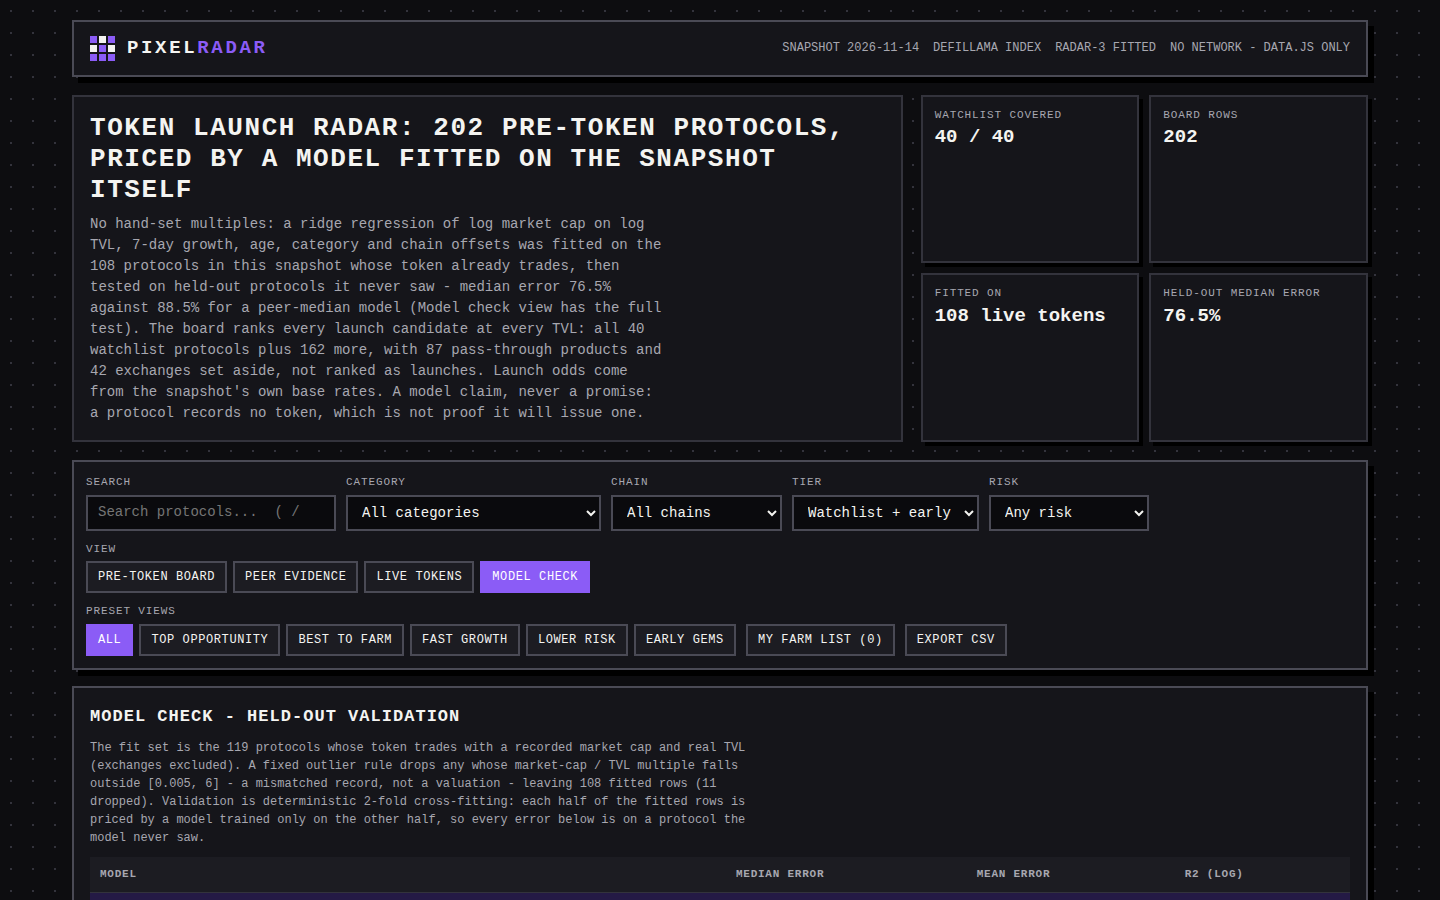
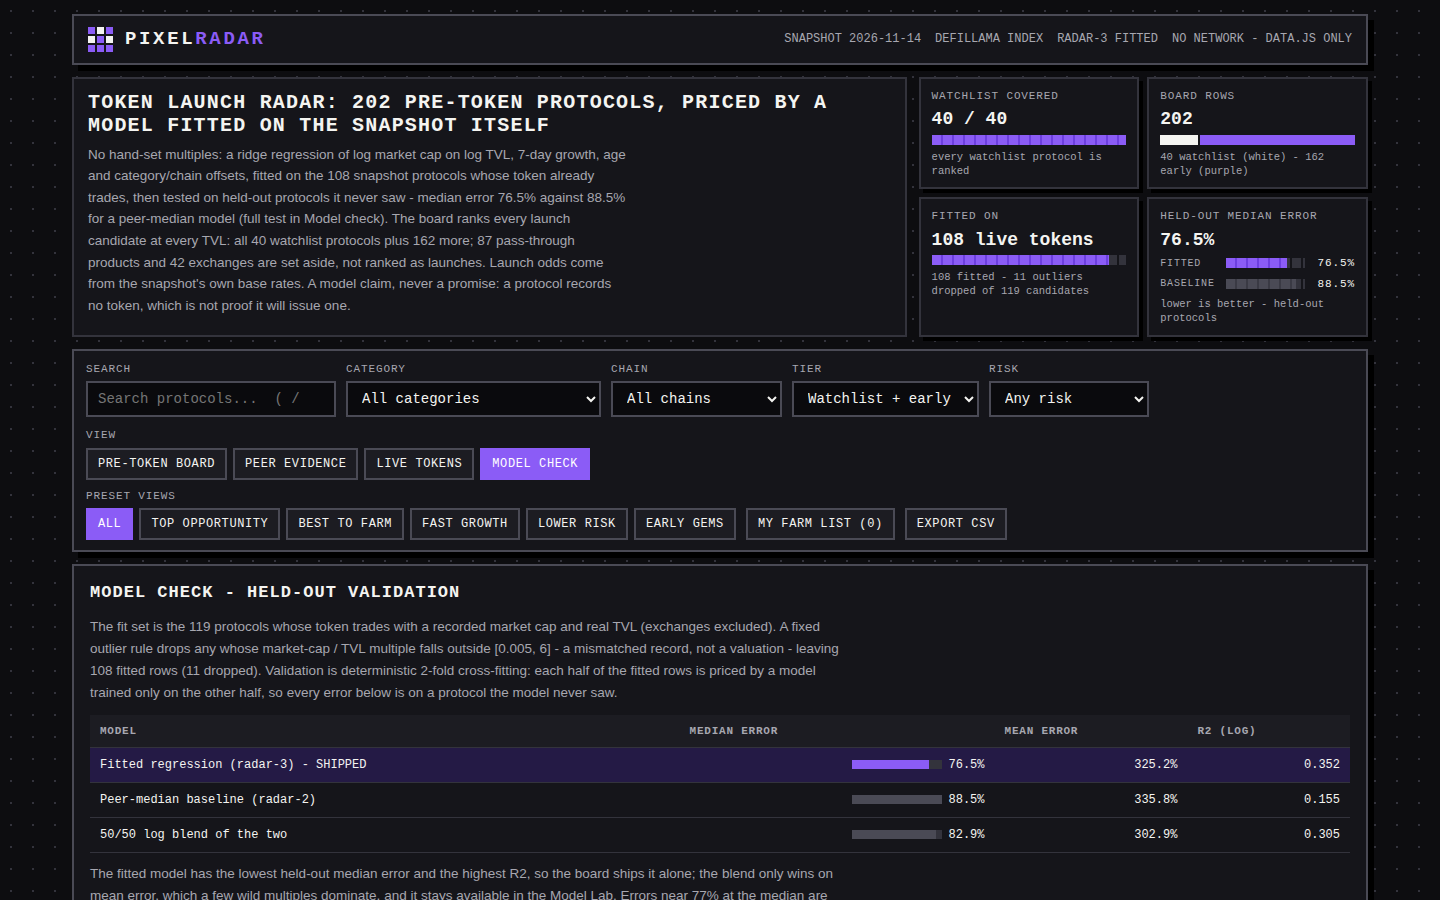
PIXEL RADAR v3 dashboard polish: typography split (pixel for headings/numbers, clean sans for body), purple as data language (odds/EV/error bars), filled stat cards with mini-viz, compact hero - model and board unchanged

Changed region(s): [[0.0312, 0.0, 0.9688, 0.9333], [0.0625, 0.9644, 0.9375, 1.0]]

diff --git a/dashboard/app.css b/dashboard/app.css
@@ -1,16 +1,20 @@
 /* PIXEL RADAR theme: black, white, one purple. No radius, 2px rules, hard offset
-   shadows and a monospace grid — a pixel instrument, not a rounded SaaS card. */
+   shadows and a monospace grid — a pixel instrument, not a rounded SaaS card.
+   Type split: the mono/display face carries headings, numbers, table headers
+   and short labels; long body text reads in a clean system sans. Purple is a
+   data language only: bars, segments and slider accents, never decoration. */
 :root{
   --bg:#0d0d10; --panel:#15151a; --panel2:#1c1c22; --ink:#f4f4f1; --muted:#a7a7b0;
   --line:#33333c; --line2:#4a4a55; --purple:#8b5cf6; --purple2:#c4b0ff; --deep:#241a45;
   --font:"Courier New",ui-monospace,Menlo,Consolas,monospace;
+  --sans:-apple-system,BlinkMacSystemFont,"Segoe UI",Roboto,Helvetica,Arial,sans-serif;
 }
 *{box-sizing:border-box}
 html{color-scheme:dark}
 body{margin:0;background:var(--bg);color:var(--ink);font:400 14px/1.5 var(--font);
   background-image:radial-gradient(var(--line) 1px,transparent 1px);background-size:22px 22px}
 h1,h2,h3{margin:0;text-transform:uppercase;letter-spacing:.06em}
-h1{font-size:26px;line-height:1.2} h2{font-size:17px} h3{font-size:13px;color:var(--purple2)}
+h1{font-size:20px;line-height:1.18} h2{font-size:17px} h3{font-size:13px;color:var(--purple2)}
 p{margin:0} button,input,select{font:inherit;color:inherit}
 button{cursor:pointer;background:var(--panel2);border:2px solid var(--line2);padding:5px 10px;text-transform:uppercase;font-size:12px;letter-spacing:.05em}
 button:hover{border-color:var(--purple);color:var(--purple2)}
@@ -18,23 +22,29 @@ button.on{background:var(--purple);border-color:var(--purple);color:#fff}
 :focus-visible{outline:2px solid var(--purple);outline-offset:2px}
 .skip{position:absolute;left:-9999px;top:0;background:var(--panel);border:2px solid var(--purple);padding:8px;z-index:30}
 .skip:focus{left:12px;top:12px}
-.shell{max-width:1340px;margin:0 auto;padding:20px 22px 56px}
-.top{display:flex;justify-content:space-between;gap:16px;align-items:center;border:2px solid var(--line2);background:var(--panel);padding:12px 16px;box-shadow:6px 6px 0 #000}
+.shell{max-width:1340px;margin:0 auto;padding:14px 22px 48px}
+.top{display:flex;justify-content:space-between;gap:16px;align-items:center;border:2px solid var(--line2);background:var(--panel);padding:9px 14px;box-shadow:6px 6px 0 #000}
 .brand{display:flex;gap:12px;align-items:center}
 .pixels{display:grid;grid-template-columns:repeat(3,7px);gap:2px}
 .pixels i{width:7px;height:7px;background:var(--ink)} .pixels i.p{background:var(--purple)} .pixels i.o{background:transparent}
 .brand-name{font-size:19px;font-weight:700;letter-spacing:.14em}
 .brand-name b{color:var(--purple)}
 .top-meta{color:var(--muted);font-size:12px;display:flex;gap:14px;flex-wrap:wrap;text-transform:uppercase}
-.lede{display:grid;grid-template-columns:1.3fr .7fr;gap:18px;margin:18px 0}
-.lede .intro{border:2px solid var(--line);background:var(--panel);padding:16px}
-.lede p{color:var(--muted);margin-top:8px;max-width:68ch}
-.facts{display:grid;grid-template-columns:1fr 1fr;gap:10px}
-.fact{border:2px solid var(--line);background:var(--panel);padding:10px 12px;box-shadow:4px 4px 0 #000}
+.lede{display:grid;grid-template-columns:1.3fr .7fr;gap:12px;margin:12px 0}
+.lede .intro{border:2px solid var(--line);background:var(--panel);padding:12px 14px}
+.lede p{color:var(--muted);margin-top:6px;max-width:72ch;font-family:var(--sans);font-size:13.5px;line-height:1.6}
+.facts{display:grid;grid-template-columns:1fr 1fr;gap:8px}
+.fact{border:2px solid var(--line);background:var(--panel);padding:9px 11px;box-shadow:4px 4px 0 #000;display:flex;flex-direction:column;gap:5px}
 .fact span{display:block;color:var(--muted);font-size:11px;text-transform:uppercase;letter-spacing:.08em}
-.fact b{font-size:19px}
+.fact b{font-size:18px;line-height:1.15}
 .fact b em{font-style:normal;color:var(--purple)}
-.controls{border:2px solid var(--line2);background:var(--panel);padding:12px;display:grid;gap:10px;box-shadow:6px 6px 0 #000}
+.fact .viz-note{display:block;color:var(--muted);font-size:10.5px;text-transform:none;letter-spacing:0;line-height:1.35}
+.strip,.fact .strip{display:flex;height:10px;gap:2px}
+.strip i{display:block;height:100%} .strip .w{background:var(--ink)} .strip .p{background:var(--purple)}
+.errs{display:grid;gap:4px}
+.erow{display:grid;grid-template-columns:58px 1fr 42px;gap:8px;align-items:center}
+.erow span{font-size:10px} .erow .num{font-size:11px;color:var(--ink)}
+.controls{border:2px solid var(--line2);background:var(--panel);padding:10px 12px;display:grid;gap:8px;box-shadow:6px 6px 0 #000}
 .rowflex{display:flex;flex-wrap:wrap;gap:10px;align-items:end}
 .field{display:grid;gap:4px}.field label,.field .lab{color:var(--muted);font-size:11px;text-transform:uppercase;letter-spacing:.08em}
 .field input,.field select{min-height:36px;background:#0a0a0d;border:2px solid var(--line2);padding:0 10px;min-width:160px;border-radius:0}
@@ -42,11 +52,11 @@ button.on{background:var(--purple);border-color:var(--purple);color:#fff}
 .presets{display:flex;gap:6px;flex-wrap:wrap}
 .count{margin-left:auto;color:var(--purple2);font-size:12px;text-transform:uppercase}
 .tabs{display:flex;gap:6px}
-.panel{border:2px solid var(--line2);background:var(--panel);margin-top:16px;box-shadow:6px 6px 0 #000}
+.panel{border:2px solid var(--line2);background:var(--panel);margin-top:12px;box-shadow:6px 6px 0 #000}
 .table-wrap{overflow-x:auto}
 table{width:100%;border-collapse:collapse;font-size:13px}
-caption{text-align:left;color:var(--muted);padding:10px 12px;font-size:12px}
-th,td{padding:9px 10px;border-bottom:1px solid var(--line);text-align:left;vertical-align:middle;white-space:nowrap}
+caption{text-align:left;color:var(--muted);padding:9px 12px;font-size:12.5px;font-family:var(--sans);line-height:1.55}
+th,td{padding:8px 10px;border-bottom:1px solid var(--line);text-align:left;vertical-align:middle;white-space:nowrap}
 th{color:var(--muted);font-size:11px;text-transform:uppercase;letter-spacing:.07em;background:var(--panel2)}
 th button{border:0;background:none;padding:0;color:inherit;font-size:11px}
 tbody tr{cursor:pointer} tbody tr:hover{background:var(--panel2)}
@@ -60,18 +70,25 @@ tbody tr.sel{background:var(--deep)}
 .seg i{width:7px;height:12px;background:var(--line)} .seg i.f{background:var(--purple)} .seg i.fw{background:var(--ink)}
 .bar{width:110px;height:10px;background:repeating-linear-gradient(90deg,var(--line) 0 9px,transparent 9px 11px);display:inline-block;vertical-align:middle;margin-right:8px}
 .bar i{display:block;height:100%;background:repeating-linear-gradient(90deg,var(--purple) 0 9px,#6d3fe0 9px 11px)}
+.bar.block{display:block;width:auto;margin-right:0}
+.bar.grey i{background:repeating-linear-gradient(90deg,var(--line2) 0 9px,#3a3a44 9px 11px)}
+.vbar{display:inline-block;width:56px;height:9px;background:var(--line);vertical-align:middle;margin-right:7px}
+.vbar i{display:block;height:100%;background:var(--purple)}
+.vbar.grey i{background:var(--line2)}
 .mini{font-size:11px;padding:2px 7px}
-.model{padding:16px;display:grid;gap:10px}
+.model{padding:14px 16px;display:grid;gap:10px}
 .formula{background:#0a0a0d;border:2px dashed var(--line2);padding:12px;font-size:12px;line-height:1.8;color:var(--ink);overflow-wrap:anywhere}
-.model p{color:var(--muted);font-size:12px;max-width:95ch}
+.model p{color:var(--muted);font-family:var(--sans);font-size:13.5px;line-height:1.65;max-width:100ch}
 .lab{display:grid;grid-template-columns:1fr 1fr 1.2fr;gap:14px}
-.lab input[type=range]{width:100%;accent-color:var(--purple)}
-.lab .out{background:#0a0a0d;border:2px solid var(--line);padding:10px;font-size:12px;min-height:74px}
-.empty{padding:44px;text-align:center;display:grid;gap:10px;justify-items:center;color:var(--muted)}
-.comparebar{position:sticky;bottom:12px;margin-top:16px;border:2px solid var(--purple);background:var(--panel);padding:10px 12px;display:flex;gap:10px;align-items:center;flex-wrap:wrap;box-shadow:6px 6px 0 #000}
+.lab input[type=range]{width:100%;accent-color:var(--purple);cursor:pointer}
+.lab .out{background:#0a0a0d;border:2px solid var(--line);padding:10px;font-family:var(--sans);font-size:12.5px;line-height:1.6;min-height:74px}
+.empty{padding:40px;text-align:center;display:grid;gap:10px;justify-items:center;color:var(--muted)}
+.empty p{font-family:var(--sans);font-size:13.5px}
+.comparebar{position:sticky;bottom:12px;margin-top:12px;border:2px solid var(--purple);background:var(--panel);padding:10px 12px;display:flex;gap:10px;align-items:center;flex-wrap:wrap;box-shadow:6px 6px 0 #000}
 .comparebar span{color:var(--muted);font-size:12px;text-transform:uppercase}
 dialog.detail{position:fixed;inset:0 0 0 auto;width:min(560px,94vw);max-height:100%;margin:0 0 0 auto;background:var(--panel);color:var(--ink);border:0;border-left:3px solid var(--purple);padding:20px;overflow-y:auto}
 dialog.detail::backdrop{background:rgba(0,0,0,.65)}
+dialog.detail p{font-family:var(--sans);font-size:13px;line-height:1.6}
 .detail-head{display:flex;justify-content:space-between;gap:12px;align-items:start}
 .detail-section{margin-top:18px;border-top:2px solid var(--line);padding-top:14px;display:grid;gap:10px}
 .eq{display:grid;gap:6px;font-size:13px}
@@ -79,15 +96,16 @@ dialog.detail::backdrop{background:rgba(0,0,0,.65)}
 .eq span{color:var(--muted)} .eq .tot{font-size:16px;color:var(--purple2)}
 .steps{margin:0;padding:0;list-style:none;display:grid;gap:9px;counter-reset:st}
 .steps li{border:2px solid var(--line);background:var(--panel2);padding:9px 10px;display:grid;gap:3px}
-.steps label{display:flex;gap:9px;cursor:pointer;font-size:13px}
-.steps input{accent-color:var(--purple);width:16px;height:16px;flex:none}
+.steps label{display:flex;gap:9px;cursor:pointer;font-family:var(--sans);font-size:13.5px;line-height:1.55}
+.steps input{accent-color:var(--purple);width:16px;height:16px;flex:none;margin-top:2px}
 .cost{color:var(--muted);font-size:11px;padding-left:25px}
 .progress{height:12px;border:2px solid var(--line2)} .progress i{display:block;height:100%;background:var(--purple)}
 .peergrid{display:grid;grid-template-columns:repeat(auto-fill,minmax(215px,1fr));gap:10px;padding:12px}
 .peer{border:2px solid var(--line);padding:10px;background:var(--panel2)}
 .peer b{display:block}.peer span{display:block;color:var(--muted);font-size:12px}
 .pad{padding:12px}
+.panel>p.sub{font-family:var(--sans);font-size:12.5px;line-height:1.6}
 .model table{font-size:12px}
 dialog.detail .eq b{white-space:nowrap}
-.foot{color:var(--muted);font-size:11px;margin-top:16px;text-transform:uppercase;letter-spacing:.05em}
-@media(max-width:900px){.lede{grid-template-columns:1fr}.lab{grid-template-columns:1fr}.shell{padding:12px}h1{font-size:21px}}
+.foot{color:var(--muted);font-size:11px;margin-top:14px;text-transform:uppercase;letter-spacing:.05em;font-family:var(--sans)}
+@media(max-width:900px){.lede{grid-template-columns:1fr}.lab{grid-template-columns:1fr}.shell{padding:12px}h1{font-size:18px}}

diff --git a/dashboard/app.js b/dashboard/app.js
@@ -37,6 +37,11 @@
     return n;
   }
   function seg(score, white) { var s = el('span', { class: 'seg', 'aria-hidden': 'true' }); var filled = Math.round(score / 20); for (var i = 0; i < 5; i++) s.appendChild(el('i', { class: i < filled ? (white && i < 2 ? 'fw' : 'f') : '' })); return s; }
+  // Purple bars are the data language: vbar is the compact in-table form,
+  // pbar the full-width segmented form used in the stat cards. Grey = the
+  // baseline or a negative move; purple always marks the shipped model.
+  function vbar(pct, grey, w) { var b = el('span', { class: 'vbar' + (grey ? ' grey' : ''), 'aria-hidden': 'true' }); if (w) b.style.width = w + 'px'; b.appendChild(el('i', { style: 'width:' + clamp(Math.round(pct), 0, 100) + '%' })); return b; }
+  function pbar(pct, grey) { var b = el('span', { class: 'bar block' + (grey ? ' grey' : ''), 'aria-hidden': 'true' }); b.appendChild(el('i', { style: 'width:' + clamp(Math.round(pct), 0, 100) + '%' })); return b; }
 
   // Farm plan: the same derivation lib/model.ts writes into board.json -
   // category, first chain (and its gas tier), TVL tier and age decide every
@@ -138,12 +143,27 @@
       el('div', { class: 'top-meta' }, el('span', { text: 'Snapshot ' + DATA.as_of }), el('span', { text: 'DefiLlama index' }), el('span', { text: DATA.model_version }), el('span', { text: 'No network - data.js only' })));
   }
   function lede() {
-    function fact(label, value) { return el('div', { class: 'fact' }, el('span', { text: label }), el('b', null, value)); }
-    var v = DATA.validation;
+    var v = DATA.validation, f = DATA.fit;
+    function fact(label, value, viz, note) {
+      var d = el('div', { class: 'fact' }, el('span', { text: label }), el('b', { text: value }));
+      if (viz) d.appendChild(viz);
+      if (note) d.appendChild(el('span', { class: 'viz-note', text: note }));
+      return d;
+    }
+    var strip = el('span', { class: 'strip', 'aria-hidden': 'true' },
+      el('i', { class: 'w', style: 'width:' + (DATA.watchlist_size / DATA.board_size * 100).toFixed(1) + '%' }),
+      el('i', { class: 'p', style: 'width:' + (DATA.early_size / DATA.board_size * 100).toFixed(1) + '%' }));
+    var errs = el('div', { class: 'errs' },
+      el('div', { class: 'erow' }, el('span', { text: 'Fitted' }), pbar(v.fitted.median_ape_pct), el('span', { class: 'num', text: v.fitted.median_ape_pct + '%' })),
+      el('div', { class: 'erow' }, el('span', { text: 'Baseline' }), pbar(v.baseline.median_ape_pct, true), el('span', { class: 'num', text: v.baseline.median_ape_pct + '%' })));
     return el('section', { class: 'lede' },
       el('div', { class: 'intro' }, el('h1', { text: 'Token launch radar: ' + DATA.board_size + ' pre-token protocols, priced by a model fitted on the snapshot itself' }),
-        el('p', { text: 'No hand-set multiples: a ridge regression of log market cap on log TVL, 7-day growth, age, category and chain offsets was fitted on the ' + DATA.fit.fit_rows + ' protocols in this snapshot whose token already trades, then tested on held-out protocols it never saw - median error ' + v.fitted.median_ape_pct + '% against ' + v.baseline.median_ape_pct + '% for a peer-median model (Model check view has the full test). The board ranks every launch candidate at every TVL: all ' + DATA.watchlist_size + ' watchlist protocols plus ' + DATA.early_size + ' more, with ' + DATA.excluded_passthrough + ' pass-through products and ' + DATA.excluded_cex + ' exchanges set aside, not ranked as launches. Launch odds come from the snapshot\'s own base rates. A model claim, never a promise: a protocol records no token, which is not proof it will issue one.' })),
-      el('div', { class: 'facts' }, fact('Watchlist covered', DATA.watchlist_size + ' / ' + DATA.watchlist_size), fact('Board rows', String(DATA.board_size)), fact('Fitted on', DATA.fit.fit_rows + ' live tokens'), fact('Held-out median error', v.fitted.median_ape_pct + '%')));
+        el('p', { text: 'No hand-set multiples: a ridge regression of log market cap on log TVL, 7-day growth, age and category/chain offsets, fitted on the ' + f.fit_rows + ' snapshot protocols whose token already trades, then tested on held-out protocols it never saw - median error ' + v.fitted.median_ape_pct + '% against ' + v.baseline.median_ape_pct + '% for a peer-median model (full test in Model check). The board ranks every launch candidate at every TVL: all ' + DATA.watchlist_size + ' watchlist protocols plus ' + DATA.early_size + ' more; ' + DATA.excluded_passthrough + ' pass-through products and ' + DATA.excluded_cex + ' exchanges are set aside, not ranked as launches. Launch odds come from the snapshot\'s own base rates. A model claim, never a promise: a protocol records no token, which is not proof it will issue one.' })),
+      el('div', { class: 'facts' },
+        fact('Watchlist covered', DATA.watchlist_size + ' / ' + DATA.watchlist_size, pbar(100), 'every watchlist protocol is ranked'),
+        fact('Board rows', String(DATA.board_size), strip, DATA.watchlist_size + ' watchlist (white) - ' + DATA.early_size + ' early (purple)'),
+        fact('Fitted on', f.fit_rows + ' live tokens', pbar(f.fit_rows / f.candidate_rows * 100), f.fit_rows + ' fitted - ' + f.dropped_rows + ' outliers dropped of ' + f.candidate_rows + ' candidates'),
+        fact('Held-out median error', v.fitted.median_ape_pct + '%', errs, 'lower is better - held-out protocols')));
   }
   function selectField(label, id, values, current, onchange) {
     var s = el('select', { id: id, 'aria-label': label }, values.map(function (v) { return el('option', { value: v[0], text: v[1], selected: v[0] === current ? 'selected' : null }); }));
@@ -188,6 +208,7 @@
     var c = document.getElementById('count'); if (c) c.textContent = list.length + ' rows shown - ' + compare.length + '/3 in compare';
     if (!list.length) return el('div', { class: 'panel' }, el('div', { class: 'empty' }, el('h2', { text: 'No protocol matches' }), el('p', { text: 'Clear the search or pick another filter.' }), el('button', { type: 'button', text: 'Reset all', onclick: function () { preset('all'); } })));
     var max = Math.max.apply(null, list.map(function (r) { return r.implied_value_usd; })) || 1;
+    var logMaxEv = Math.log10(1 + Math.max.apply(null, DATA.rows.map(function (r) { return r.opportunity_usd; })));
     var tb = el('tbody');
     list.forEach(function (r) {
       var star = el('button', { type: 'button', class: 'mini' + (stars.has(r.slug) ? ' on' : ''), text: stars.has(r.slug) ? 'FARMING' : '+ FARM', onclick: function (e) { e.stopPropagation(); if (stars.has(r.slug)) stars.delete(r.slug); else stars.add(r.slug); render(); } });
@@ -197,16 +218,16 @@
         el('td', null, el('span', { class: 'name' }, el('b', { text: r.name }), el('span', { class: 'sub', text: (r.category || 'Other') + ' - ' + (r.chains || []).slice(0, 2).join(', ') + (r.pass_through ? ' - PASS-THROUGH' : '') }))),
         el('td', null, el('span', { class: 'badge' + (r.in_watchlist ? ' w' : ''), text: r.in_watchlist ? 'WATCHLIST' : 'EARLY' })),
         el('td', { class: 'num', text: fmtUsd(r.tvl_usd) }),
-        el('td', { class: 'num ' + (r.change_7d !== null && r.change_7d >= 0 ? 'pos' : 'neg'), text: fmtPct(r.change_7d) }),
+        el('td', { class: 'num' }, r.change_7d === null ? 'n/a' : [vbar(Math.sqrt(Math.min(Math.abs(r.change_7d), 100)) * 10, r.change_7d < 0), el('span', { class: r.change_7d >= 0 ? 'pos' : 'neg', text: fmtPct(r.change_7d) })]),
         el('td', null, seg(r.farm_score), el('span', { class: 'num', text: String(r.farm_score) })),
         el('td', { class: 'num', text: r.confidence + '%' }),
-        el('td', null, seg(r.odds, true), el('span', { class: 'num', text: r.odds + '%' })),
-        el('td', { class: 'num', text: fmtUsd(r.opportunity_usd) }),
+        el('td', null, vbar(r.odds), el('span', { class: 'num', text: r.odds + '%' })),
+        el('td', null, vbar(Math.log10(1 + r.opportunity_usd) / logMaxEv * 100), el('span', { class: 'num', text: fmtUsd(r.opportunity_usd) })),
         el('td', null, el('span', { class: 'bar', 'aria-hidden': 'true' }, el('i', { style: 'width:' + Math.max(4, Math.round(r.implied_value_usd / max * 100)) + '%' })), el('span', { class: 'num', text: fmtUsd(r.implied_value_usd) })),
         el('td', null, star, ' ', cmp)));
     });
     return el('div', { class: 'panel' }, el('div', { class: 'table-wrap' }, el('table', null,
-      el('caption', { text: 'Ranked by implied value (fitted model). Odds = launch odds from category base rates; EV index = implied x odds x confidence. FARM saves a protocol to your farm list, VS adds it to the compare tray (max 3). Select a row for its fitted breakdown and farm plan.' }),
+      el('caption', { text: 'Ranked by implied value (fitted model). Odds = launch odds from category base rates; EV index = implied x odds x confidence. Purple bars scale the odds, the EV index (log scale) and the size of the 7d move (grey when negative). FARM saves a protocol to your farm list, VS adds it to the compare tray (max 3). Select a row for its fitted breakdown and farm plan.' }),
       el('thead', null, el('tr', null, sortHead('implied', '#'), sortHead('name', 'Protocol'), el('th', { text: 'Tier' }), sortHead('tvl', 'TVL'), sortHead('growth', '7d'), sortHead('farm', 'Farm score'), sortHead('conf', 'Conf.'), sortHead('odds', 'Odds'), sortHead('ev', 'EV index'), sortHead('implied', 'Implied value'), el('th', { text: 'Actions' }))), tb)));
   }
   function currentView() { return state.tab === 'pre' ? boardTable() : state.tab === 'peers' ? peersView() : state.tab === 'live' ? liveView() : modelView(); }
@@ -222,7 +243,8 @@
     return el('div', { class: 'panel' }, el('div', { class: 'table-wrap' }, el('table', null, el('caption', { text: 'Live tokens are evidence, not entries: the model is fitted on them, and they are never mixed into the pre-token ranking.' }), el('thead', null, el('tr', null, el('th', { text: 'Protocol' }), el('th', { text: 'TVL' }), el('th', { text: 'Market cap' }), el('th', { text: 'Mcap/TVL' }), el('th', { text: '7d' }), el('th', { text: 'Token' }))), tb)));
   }
   function statRow(label, s, chosen) {
-    return el('tr', chosen ? { class: 'sel' } : null, el('td', { text: label + (chosen ? ' - SHIPPED' : '') }), el('td', { class: 'num', text: s.median_ape_pct + '%' }), el('td', { class: 'num', text: s.mean_ape_pct + '%' }), el('td', { class: 'num', text: String(s.r2_log) }));
+    var vv = DATA.validation, maxMed = Math.max(vv.fitted.median_ape_pct, vv.baseline.median_ape_pct, vv.blend.median_ape_pct);
+    return el('tr', chosen ? { class: 'sel' } : null, el('td', { text: label + (chosen ? ' - SHIPPED' : '') }), el('td', { class: 'num' }, vbar(s.median_ape_pct / maxMed * 100, !chosen, 90), el('span', { text: s.median_ape_pct + '%' })), el('td', { class: 'num', text: s.mean_ape_pct + '%' }), el('td', { class: 'num', text: String(s.r2_log) }));
   }
   function modelView() {
     var f = DATA.fit, v = DATA.validation;
